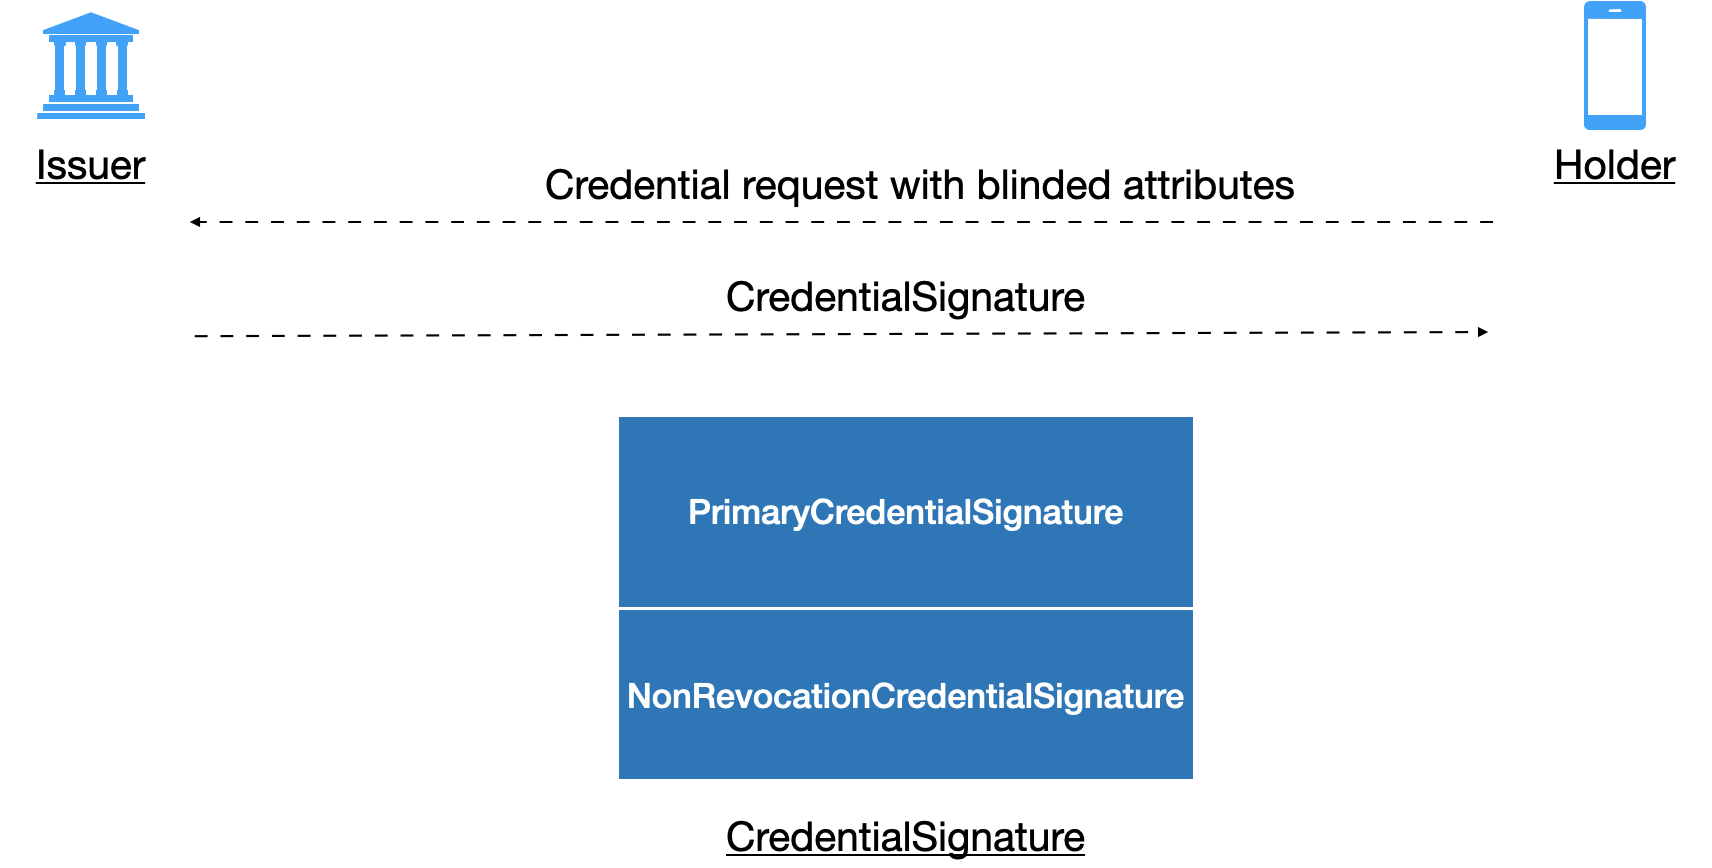
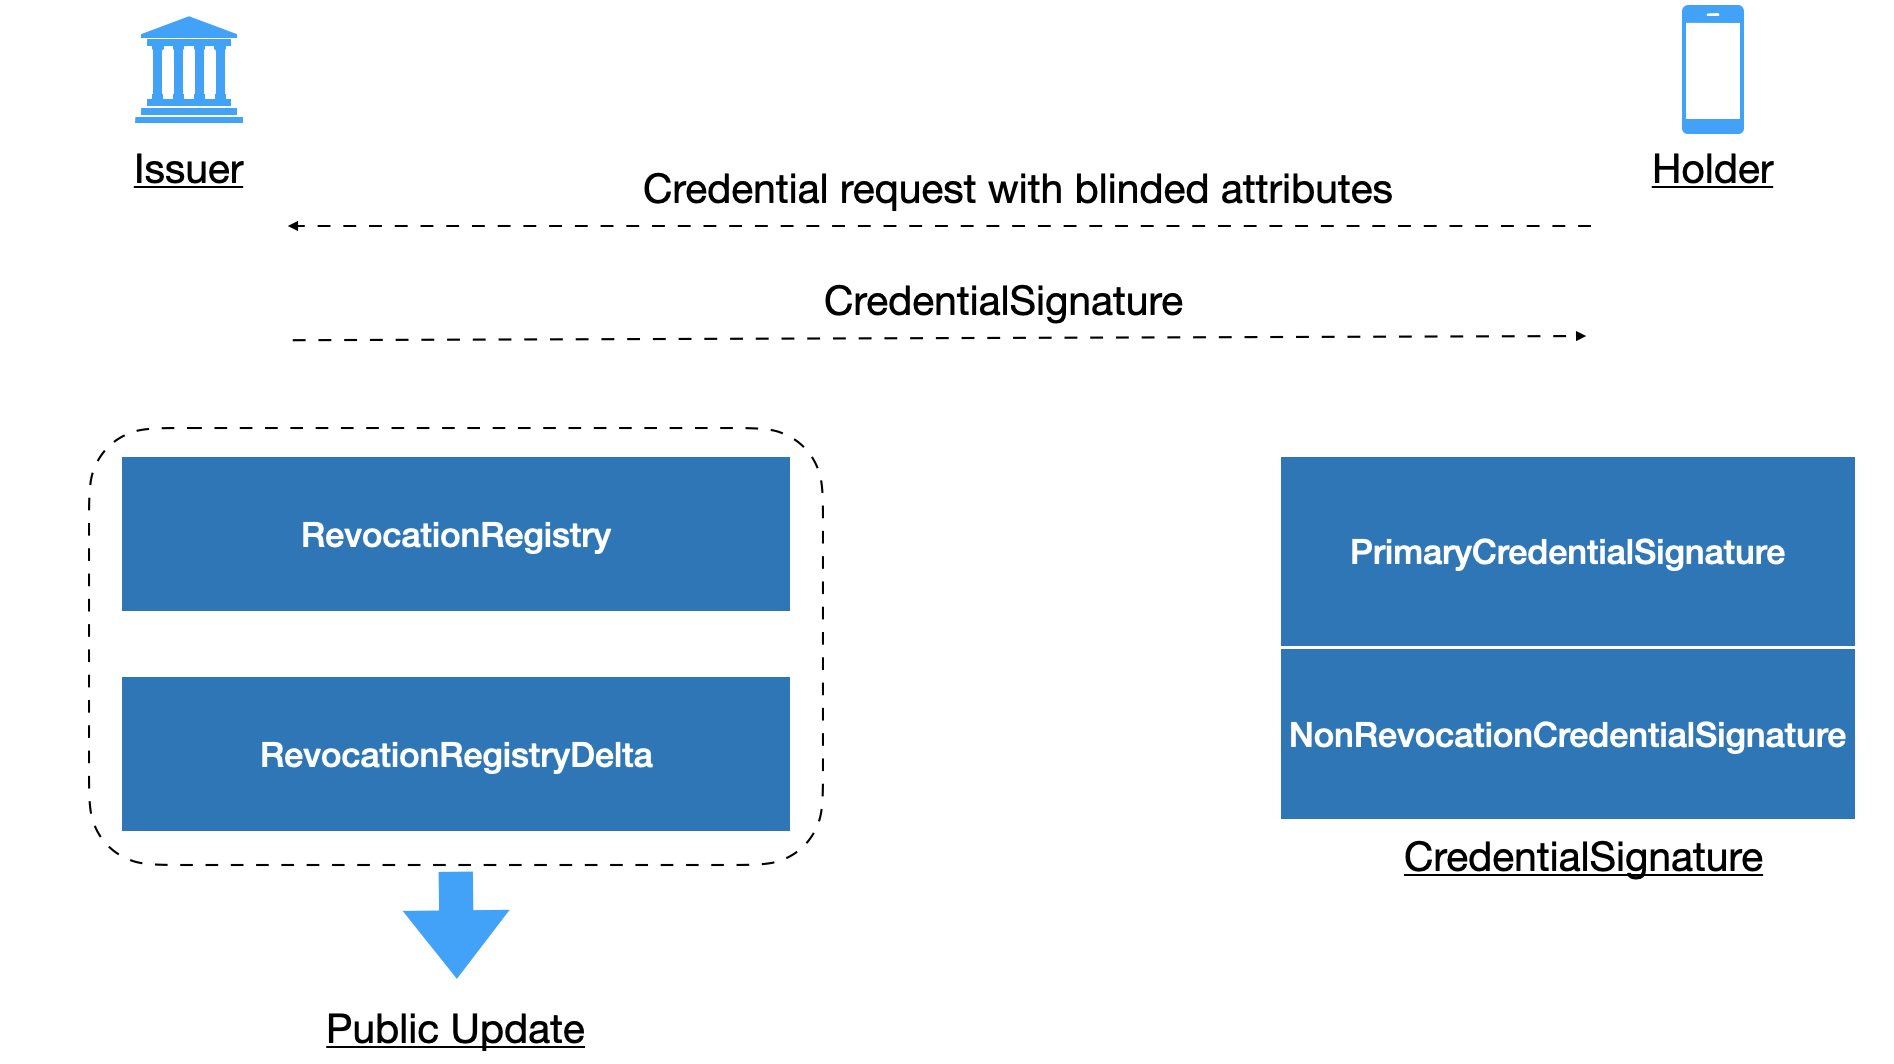
Update document

diff --git a/NewRevocation.md b/NewRevocation.md
@@ -180,6 +180,105 @@ the argument type:
 
 <img src="figures/sign.png" height="300"/>
 
+During credential issuance, the issuer creates an attestation object `CredentialSignature` which consists of attributes for 
+the holder according to the credential schema. In addition, when a credential with revocation support is requested, the 
+`CredentialSignature` object consists of:
+- `PrimaryCredentialSignature`: which denotes the primary CL signature over the attributes.
+- `NonRevocationCredentialSignature`: which denotes the non-revocation witness for the credential.
+
+Apart from creating the credential signature, the issuer also generates public artefacts (i) `RevocationRegistry` which 
+denotes the new state of registry (accumulator value) and (ii) `RevocationRegistryDelta` which is the information used by holders
+to update their witness to the new accumulator state. In Ursa, the following function completes a credential issuance with revocation:
+
+```rust
+ pub fn sign_credential_with_revoc<RTA>(
+        prover_id: &str,
+        blinded_credential_secrets: &BlindedCredentialSecrets,
+        blinded_credential_secrets_correctness_proof: &BlindedCredentialSecretsCorrectnessProof,
+        credential_nonce: &Nonce,
+        credential_issuance_nonce: &Nonce,
+        credential_values: &CredentialValues,
+        credential_pub_key: &CredentialPublicKey,
+        credential_priv_key: &CredentialPrivateKey,
+        rev_idx: u32,
+        max_cred_num: u32,
+        issuance_by_default: bool,
+        rev_reg: &mut RevocationRegistry,
+        rev_key_priv: &RevocationKeyPrivate,
+        rev_tails_accessor: &RTA,
+    ) -> UrsaCryptoResult<(
+        CredentialSignature,
+        SignatureCorrectnessProof,
+        Option<RevocationRegistryDelta>,
+    )>
+```
+### Supporting Changes
+As before, we introduce following new types and generic types:
+
+| CKS  (Existing)           | VA    (New)                 | Generic      (New)           |
+|---------------------------|-----------------------------|------------------------------|
+| `CredentialSignature`     | `CredentialSignatureVA`     | `GenCredentialSignature`     |
+| `RevocationRegistryDelta` | `RevocationRegistryDeltaVA` | `GenRevocationRegistryDelta` |
+
+The following function is introduced that allows creation of generic signatures with either revocation scheme
+
+<table>
+<tr>
+<td>
+
+```rust
+ pub fn sign_credential_with_revoc<RTA>(
+    prover_id: &str,
+    blinded_credential_secrets: &BlindedCredentialSecrets,
+    blinded_credential_secrets_correctness_proof: &BlindedCredentialSecretsCorrectnessProof,
+    credential_nonce: &Nonce,
+    credential_issuance_nonce: &Nonce,
+    credential_values: &CredentialValues,
+    credential_pub_key: &CredentialPublicKey,
+    credential_priv_key: &CredentialPrivateKey,
+    rev_idx: u32,
+    max_cred_num: u32,
+    issuance_by_default: bool,
+    rev_reg: &mut RevocationRegistry,
+    rev_key_priv: &RevocationKeyPrivate,
+    rev_tails_accessor: &RTA,
+) -> UrsaCryptoResult<(
+    CredentialSignature,
+    SignatureCorrectnessProof,
+    Option<RevocationRegistryDelta>,
+)>
+```
+</td>
+
+<td>
+
+```rust
+pub fn sign_credential_with_revoc_generic<RTA>(
+    prover_id: &str,
+    blinded_credential_secrets: &BlindedCredentialSecrets,
+    blinded_credential_secrets_correctness_proof: &BlindedCredentialSecretsCorrectnessProof,
+    credential_nonce: &Nonce,
+    credential_issuance_nonce: &Nonce,
+    credential_values: &CredentialValues,
+    credential_pub_key: &GenCredentialPublicKey,
+    credential_priv_key: &GenCredentialPrivateKey,
+    rev_idx: u32,
+    max_cred_num: u32,
+    issuance_by_default: bool,
+    rev_reg:&mut GenRevocationRegistry,
+    reg_priv_key: &GenRevocationKeyPrivate,
+    rev_tails_accessor: &RTA,
+) -> UrsaCryptoResult<(
+    GenCredentialSignature,
+    SignatureCorrectnessProof,
+    Option<GenRevocationRegistryDelta>
+)>
+```
+</td>
+</tr>
+</table>
+
+
 ## Benchmarks
 ### Issuer Operations 
 #### Registry Definition ( `max_cred_num=100,000`):
